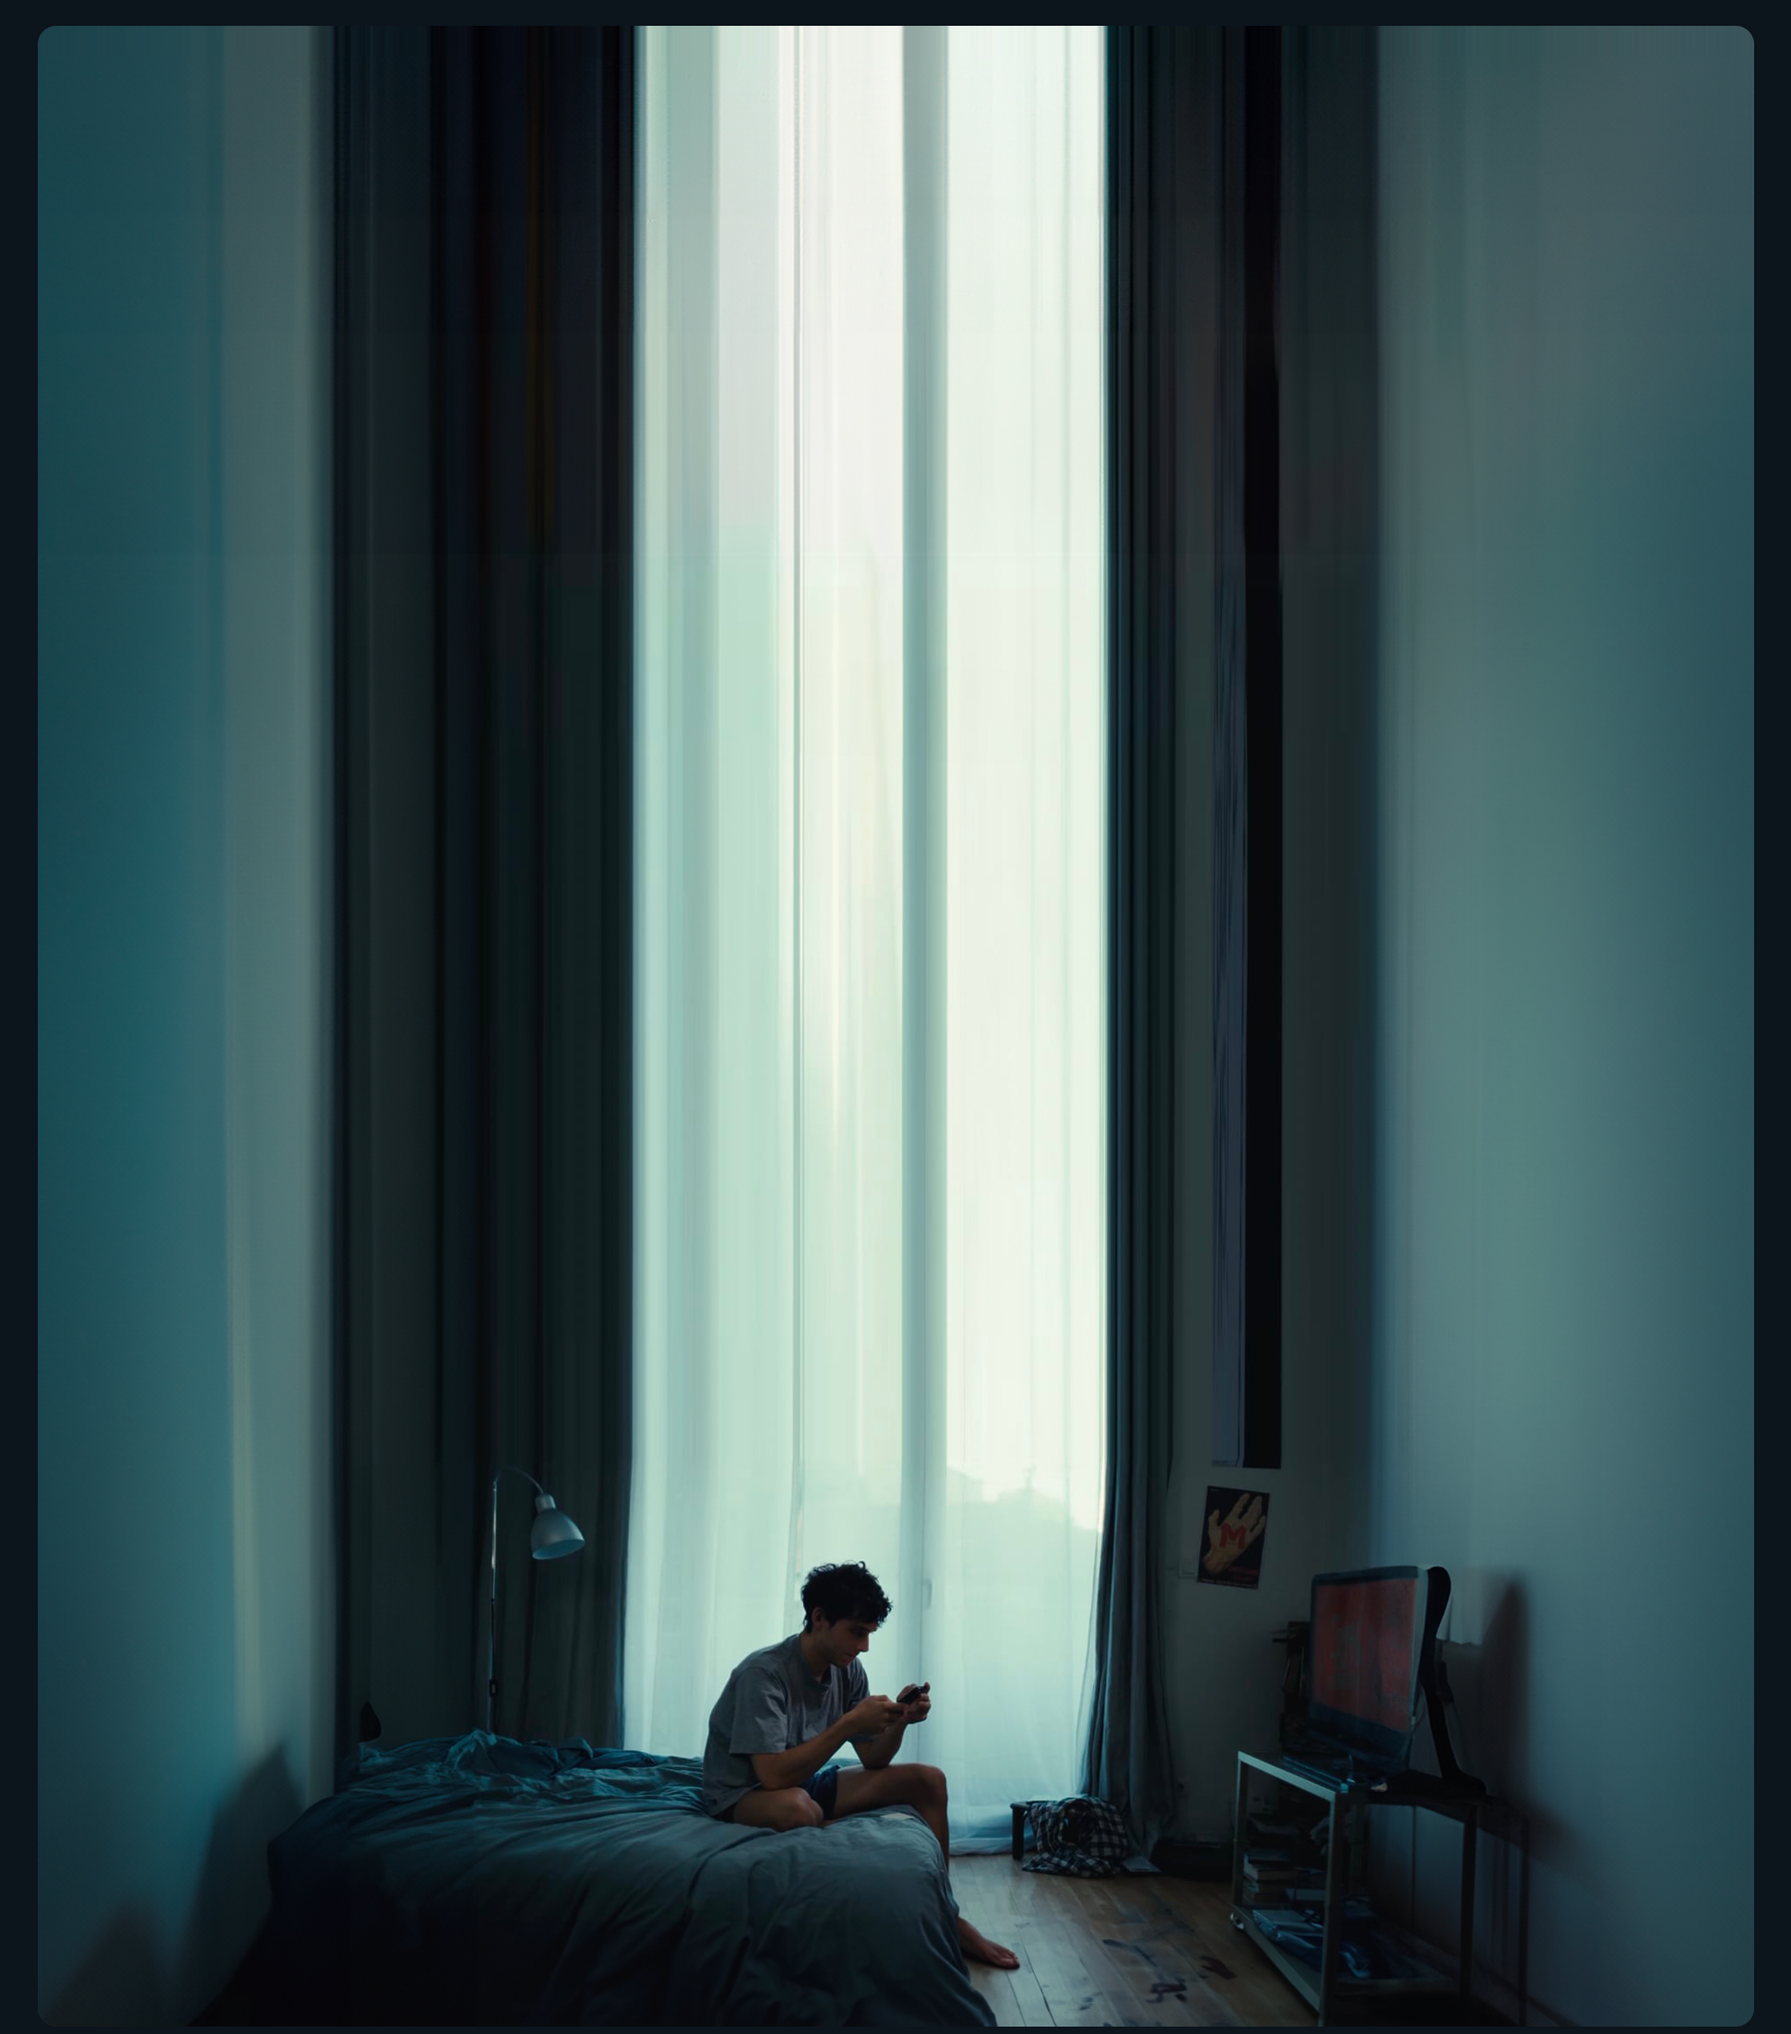
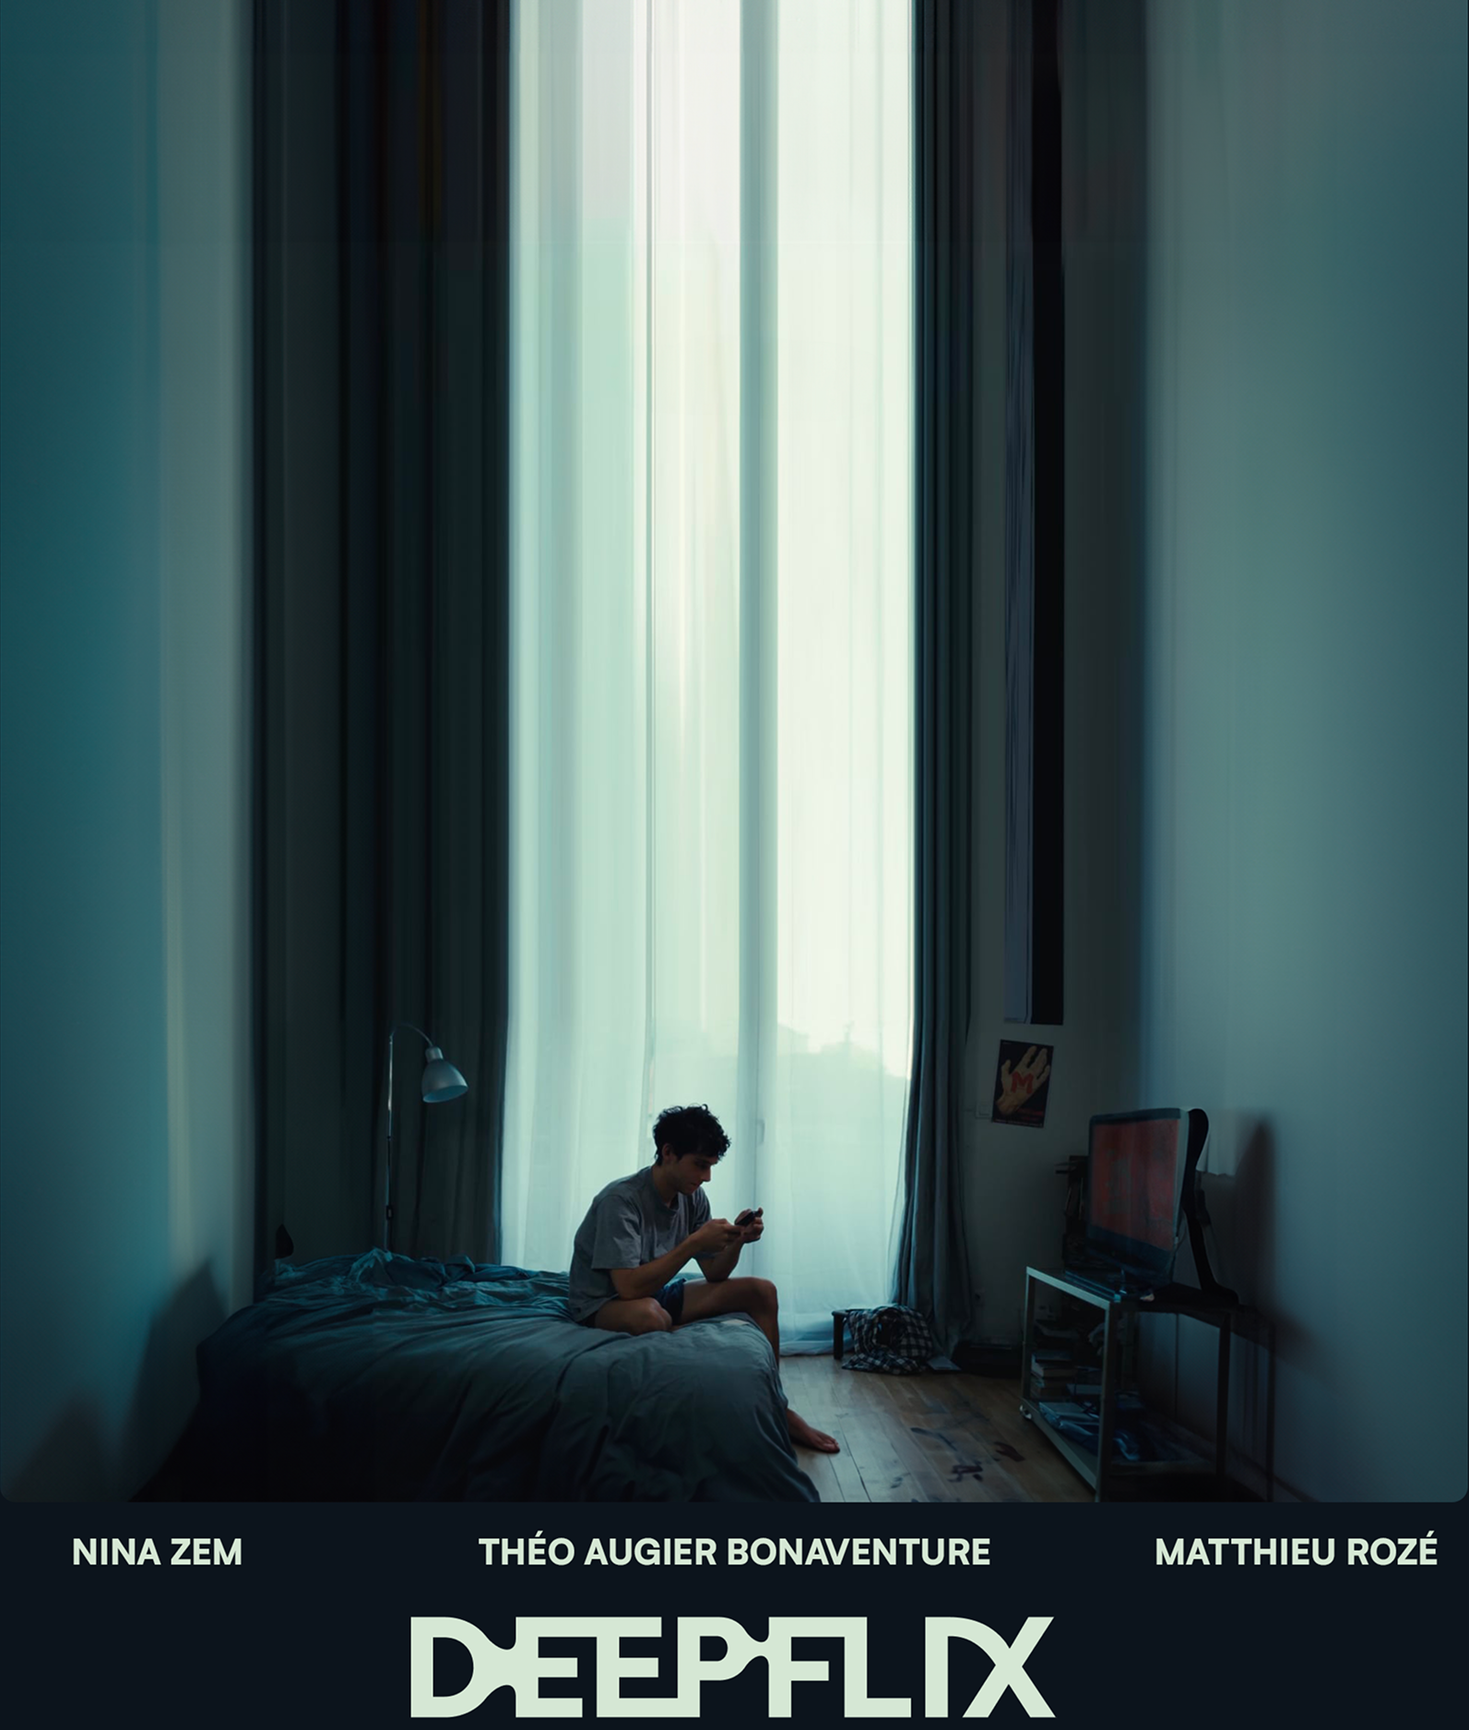
refacto front register

diff --git a/src/components/FormRegister/FormRegisterRefacto.module.scss b/src/components/FormRegister/FormRegisterRefacto.module.scss
@@ -1,0 +1,182 @@
+.formRegisterContainer {
+	width: 37rem;
+	// height: 80%;
+	background-color: rgb(0, 0, 0);
+	margin: 0 auto;
+	border-radius: 0.875rem;
+	padding: 4.25rem 1rem 2.9375rem 1rem;
+	display: flex;
+	justify-content: space-around;
+	align-items: center;
+	flex-direction: column;
+}
+
+.logoContainer {
+	width: 100%;
+	height: 3rem;
+	position: relative;
+}
+
+.subLogoTextContainer {
+	width: 55%;
+	text-align: center;
+	padding-top: 1rem;
+	padding-bottom: 1.5rem;
+	font-size: 22px;
+	line-height: 1.75rem;
+	font-weight: 500;
+}
+
+.formContainer {
+	display: flex;
+	flex-direction: column;
+	justify-content: center;
+	align-items: center;
+	gap: 1rem;
+	width: 75%;
+
+	.buttonContainer {
+		width: 100%;
+		display: flex;
+		justify-content: center;
+		align-items: center;
+		overflow: hidden;
+		padding-top: 3rem;
+		padding-bottom: 3rem;
+		.startButton {
+			width: 100%;
+			display: flex;
+			justify-content: center;
+			align-items: center;
+			border-radius: 0.625rem;
+			border: 2px solid #f63c33;
+			transition: 0.2s ease;
+			&:hover {
+				box-shadow: 0 4px 30px rgba(205, 65, 15, 0.295);
+				background-color: rgba(246, 60, 51, 0.1);
+				color: #f63c33;
+			}
+			button {
+				all: unset;
+				width: 100%;
+				height: 3.125rem;
+				cursor: pointer;
+				text-align: center;
+				// color: #f63c33;
+				font-size: 22px;
+				font-style: normal;
+				font-weight: 400;
+				line-height: normal;
+			}
+		}
+	}
+
+	.input {
+		all: unset;
+		padding: 0.625rem 1rem;
+		width: 90%;
+		border: solid 1px #bfbfbf;
+		border-radius: 0.625rem;
+		color: white;
+		font-size: 22px;
+		font-style: normal;
+		font-weight: 400;
+		line-height: normal;
+	}
+}
+
+.lillTextInfo {
+	width: 70%;
+	text-align: center;
+	font-size: 12px;
+	font-style: normal;
+	font-weight: 300;
+	color: #bfbfbf;
+	line-height: 0.9375rem;
+	.lillTextInfoUnderline {
+		font-size: 12px;
+		text-decoration: underline;
+		color: red;
+	}
+}
+
+@media only screen and (max-width: 730px) {
+	.formRegisterContainer {
+		width: 80%;
+		.subLogoTextContainer {
+			width: 80%;
+		}
+		.lillTextInfo {
+			width: 80%;
+		}
+	}
+}
+
+@media only screen and (max-width: 660px) {
+	.formRegisterContainer {
+		.formContainer {
+			width: 90%;
+		}
+	}
+}
+
+@media only screen and (max-width: 500px) {
+	.formRegisterContainer {
+		.logoContainer {
+			height: 2.5rem;
+		}
+		.subLogoTextContainer {
+			font-size: 18px;
+		}
+		.formContainer {
+			width: 90%;
+
+			.input {
+				font-size: 16px;
+			}
+		}
+	}
+}
+
+@media only screen and (max-width: 450px) {
+	.formRegisterContainer {
+		height: 80%;
+		width: 84%;
+		.logoContainer {
+			img {
+				transform: translateY(-30%);
+
+				height: 3rem !important;
+			}
+		}
+		.subLogoTextContainer {
+			width: 85%;
+			font-size: 16px;
+			line-height: 140%;
+			padding-top: 1rem;
+			padding-bottom: 0.6rem;
+		}
+		.formContainer {
+			width: 95%;
+			.buttonContainer {
+				width: 100%;
+				padding-top: 2rem;
+				padding-bottom: 2rem;
+				button {
+					height: 2.5rem;
+					font-size: 18px;
+				}
+			}
+		}
+		.lillTextInfo {
+			width: 90%;
+		}
+	}
+}
+
+@media only screen and (max-width: 375px) {
+	.formRegisterContainer {
+		width: 90%;
+		height: auto;
+	}
+}

diff --git a/src/components/FormRegister/FormRegisterRefacto.jsx b/src/components/FormRegister/FormRegisterRefacto.jsx
@@ -1,0 +1,60 @@
+"use client";
+import { useCallApi } from "../useCallApi/useCallApi";
+import style from "./FormRegisterRefacto.module.scss";
+import { easeInOut, motion } from "framer-motion";
+import Image from "next/image";
+export const FormRegisterRefacto = () => {
+	const { postData, responseApi } = useCallApi();
+	const prependZero = (number) => {
+		if (number < 9) return "0" + number;
+		else return number;
+	};
+	const date = new Date();
+	const month = prependZero(date.getUTCMonth() + 1);
+	const day = date.getUTCDate();
+	const year = date.getUTCFullYear();
+
+	const finalDate = `${year}-${month}-${day}`;
+	console.log(finalDate);
+
+	const handleSubmit = (e) => {
+		e.preventDefault();
+
+		const formData = new FormData(e.target);
+		const fName = formData.get("fName");
+		const name = formData.get("name");
+		const validationDate = finalDate;
+		const userMailAdress = formData.get("userMailAdress");
+		if (!fName || !name || !userMailAdress) {
+			alert("Veuillez remplir tous les champs");
+			return;
+		}
+		postData({ fName, name, userMailAdress, validationDate });
+	};
+
+	return (
+		<div className={style.formRegisterContainer}>
+			<div className={style.logoContainer}>
+				<Image src="/DeepflixText.svg" alt="logo" fill={true} />
+			</div>
+			<div className={style.subLogoTextContainer}>
+				<p>S’inscrire à l’avant-première du 14/03 au Nouvel Odéon</p>
+			</div>
+			<form className={style.formContainer} onSubmit={handleSubmit}>
+				<input name="fName" placeholder="Entrer votre nom" className={style.input}></input>
+				<input name="name" placeholder="Entrer votre prénom" className={style.input}></input>
+				<input name="userMailAdress" placeholder="Entrer votre adresse e-mail" className={style.input}></input>
+
+				<div className={style.buttonContainer}>
+					<motion.div className={style.startButton}>
+						<button type="submit">CONFIRMER</button>
+					</motion.div>
+				</div>
+				<p className={style.lillTextInfo}>
+					I understand that my information will be used in accordance with Deepflix’s{" "}
+					<span className={style.lillTextInfoUnderline}>Privacy Policy</span>
+				</p>
+			</form>
+		</div>
+	);
+};

diff --git a/src/app/(register)/register/page.jsx b/src/app/(register)/register/page.jsx
@@ -1,10 +1,22 @@
-import { FormLogin } from "@/components/FormLogin/FormLogin";
+import { FormRegisterRefacto } from "@/components/FormRegister/FormRegisterRefacto";
 import style from "./page.module.scss";
 import { FormRegister } from "@/components/FormRegister/FormRegister";
+import Image from "next/image";
 export default function Register() {
 	return (
 		<div className={style.registerContainer}>
-			<FormRegister />
+			<div className={style.imgContainer}>
+				<Image
+					src={"/register/bg1.png"}
+					quality={100}
+					fill
+					style={{
+						objectFit: "cover",
+						zIndex: -1,
+					}}
+				/>
+			</div>
+			{<FormRegisterRefacto />}
 		</div>
 	);
 }

diff --git a/src/app/(register)/register/page.module.scss b/src/app/(register)/register/page.module.scss
@@ -4,7 +4,24 @@
 	align-items: center;
 	width: 100vw;
 	height: 100vh;
-	background-image: url("../../../../public/register/bg.png");
-	background-repeat: no-repeat;
-	background-size: cover;
+
+	.imgContainer {
+		pointer-events: none;
+		border: solid 20px black;
+		border-radius: 66px;
+		top: 0;
+		left: 0;
+		position: absolute;
+		width: 100%;
+		height: 100%;
+	}
+}
+
+@media only screen and (max-width: 400px) {
+	.registerContainer {
+		.imgContainer {
+			border: solid 8px black;
+			border-radius: 20px;
+		}
+	}
 }

diff --git a/src/components/FormRegister/FormRegister.module.scss b/src/components/FormRegister/FormRegister.module.scss
@@ -1,5 +1,6 @@
 .formRegisterContainer {
 	width: clamp(20rem, 85%, 34rem);
+	max-height: 80%;
 	border-radius: 0.625rem;
 	background-color: rgb(21, 21, 21);
 	display: flex;
@@ -7,7 +8,7 @@
 	justify-content: center;
 	align-items: center;
 	gap: 1rem;
-	padding: 2.5rem 3.75rem;
+	padding: 1rem 3.75rem;
 
 	* {
 		font-size: 22px;
